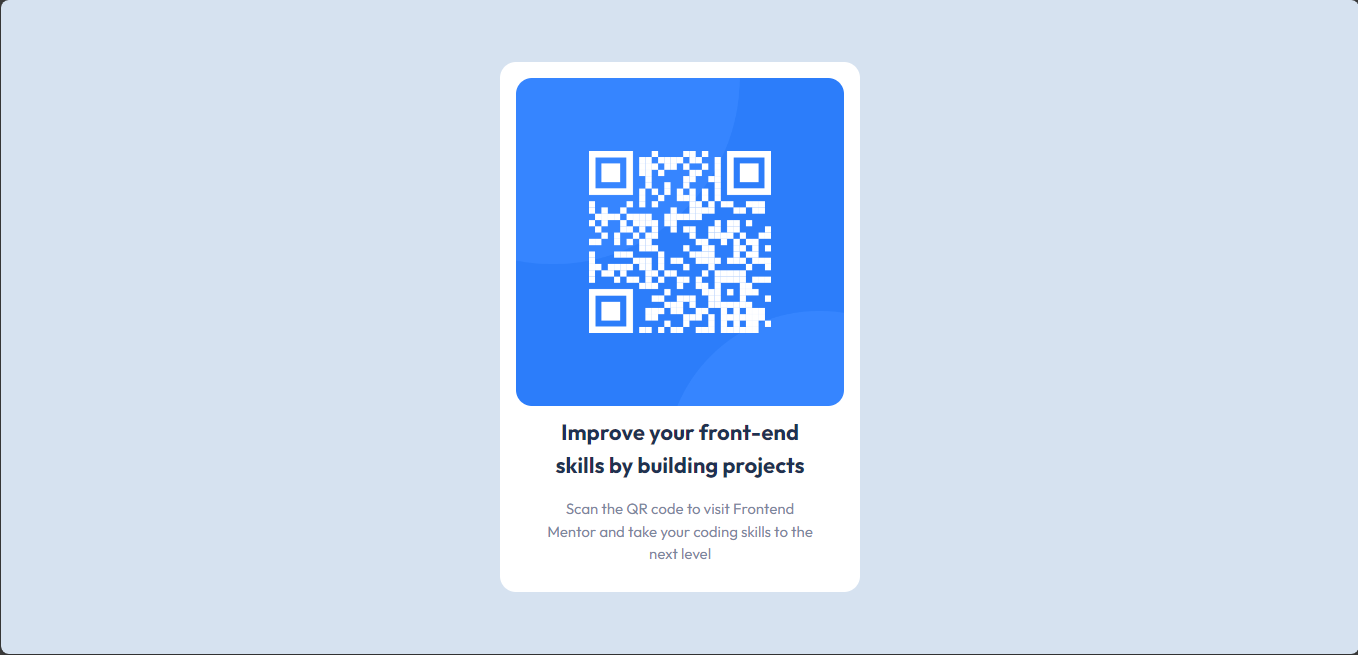
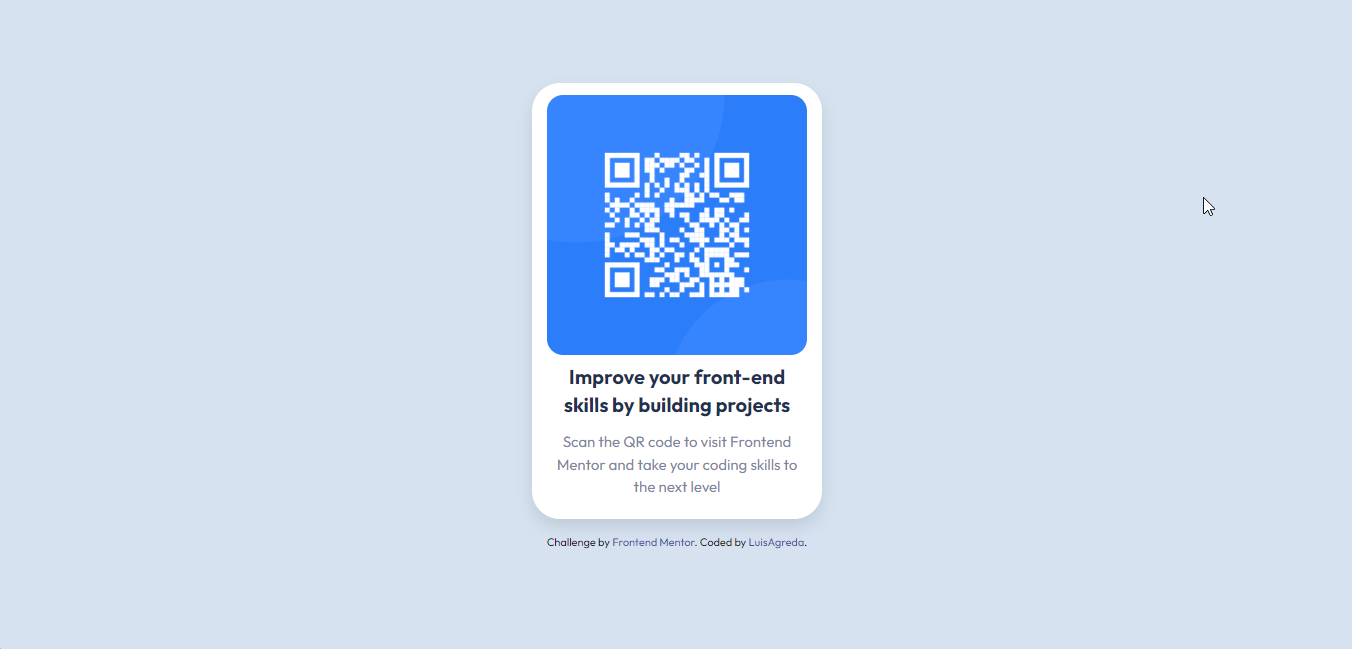
refact attribution and style img

Changed region(s): [[0.3417, 0.0924, 0.6524, 0.9245], [0.0, 0.9861, 1.0, 1.0], [0.8698, 0.3082, 0.9009, 0.339]]

diff --git a/src/index.css b/src/index.css
@@ -24,3 +24,7 @@ body{
 .attribution a{
   color: hsl(228, 45%, 44%);
 }
+
+.attribution a:hover{
+  color: hsl(218, 44%, 22%);
+}

diff --git a/README.md b/README.md
@@ -32,11 +32,14 @@ This is a solution to the [QR code component challenge on Frontend Mentor](https
 
 I'm going to keep doing these challenges until I have the confidence and practice to make good designs.
 
+### Useful resources
+
+- [Demystifying the Folder Structure of a React App](https://medium.com/swlh/demystifying-the-folder-structure-of-a-react-app-c60b29d90836) - This helped me to have a more understandable structure for when projects get long.
+- [Guide to the Atomic File Structure in React](https://medium.com/@simo-dlamini/a-friendly-guide-to-the-atomic-file-structure-in-react-8bd33e55361c) - This is an amazing article that helped me finally know how to implement pattern design like the compuond component and extensible styles pattern. I'd recommend it to anyone still learning this concept. I really liked this pattern and will use it going forward.
+
 
 ## Author
 
 - Website - [Luis Agreda](https://luisagredadev.vercel.app/)
 - Frontend Mentor - [@AgredaLuis](https://www.frontendmentor.io/profile/@AgredaLuis)
 - Linkedin - [Luis Agreda](https://www.linkedin.com/in/luisagreda/)
-
-**Note: Delete this note and add/remove/edit lines above based on what links you'd like to share.**
